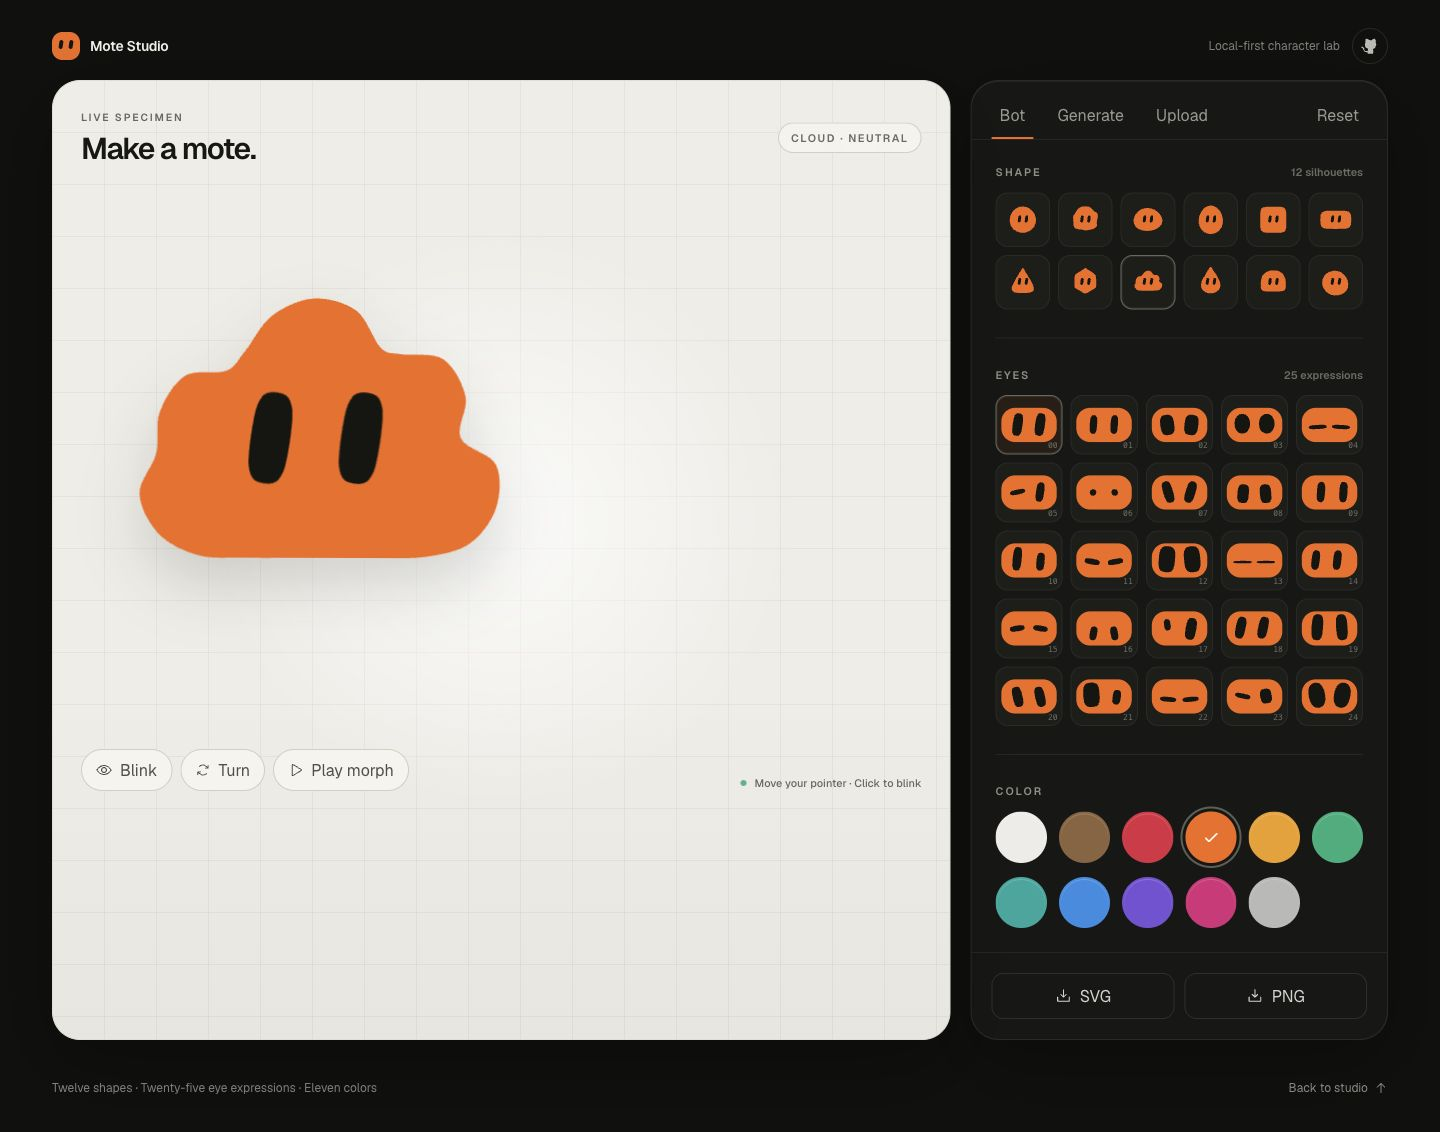
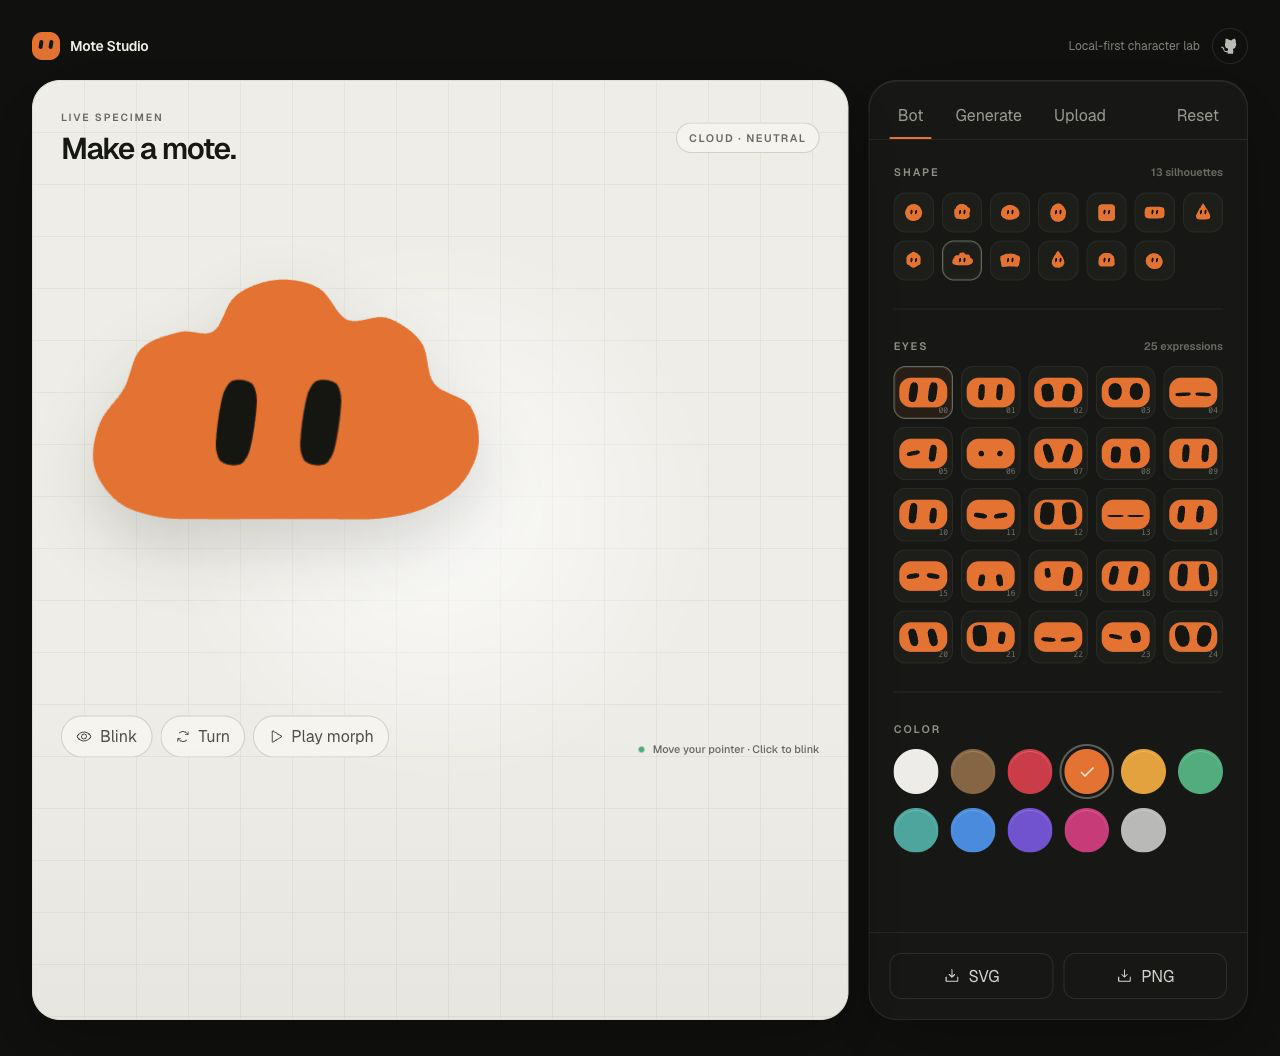
separate brain and cloud silhouettes

diff --git a/packages/core/src/shapes.ts b/packages/core/src/shapes.ts
@@ -8,6 +8,7 @@ export const SHAPE_IDS = [
   'wedge',
   'gem',
   'cloud',
+  'brain',
   'teardrop',
   'dome',
   'bean',
@@ -53,6 +54,30 @@ const superellipse = (
         Math.sign(Math.sin(angle)) *
         Math.abs(Math.sin(angle)) ** (2 / power),
   }))
+
+const wobblySuperellipse = (
+  radiusX: number,
+  radiusY: number,
+  power: number,
+  modulation: (angle: number) => number,
+): Point[] =>
+  sample((angle) => {
+    const radius = modulation(angle)
+    return {
+      x:
+        CENTER +
+        radiusX *
+          Math.sign(Math.cos(angle)) *
+          Math.abs(Math.cos(angle)) ** (2 / power) *
+          radius,
+      y:
+        CENTER +
+        radiusY *
+          Math.sign(Math.sin(angle)) *
+          Math.abs(Math.sin(angle)) ** (2 / power) *
+          radius,
+    }
+  })
 
 const radial = (
   radiusX: number,
@@ -242,43 +267,53 @@ const pointSets: Record<ShapeId, Point[]> = {
     [147, 64],
   ]),
   cloud: fromCoordinates([
-    [160, 68],
-    [181, 71],
-    [196, 84],
-    [202, 101],
-    [202, 111],
-    [214, 101],
-    [229, 99],
-    [243, 107],
-    [252, 121],
-    [254, 139],
-    [248, 152],
-    [263, 158],
-    [273, 171],
-    [274, 189],
-    [267, 207],
-    [252, 220],
-    [232, 225],
-    [205, 226],
-    [177, 226],
-    [149, 226],
-    [121, 226],
-    [94, 226],
-    [72, 218],
-    [59, 204],
-    [54, 186],
-    [58, 169],
-    [69, 158],
-    [65, 145],
-    [68, 130],
-    [78, 118],
-    [91, 109],
-    [104, 110],
-    [115, 118],
-    [119, 96],
-    [134, 79],
-    [150, 70],
+    [160, 60],
+    [181, 61],
+    [198, 72],
+    [208, 89],
+    [222, 83],
+    [240, 86],
+    [253, 98],
+    [261, 112],
+    [263, 128],
+    [278, 133],
+    [289, 145],
+    [293, 162],
+    [290, 179],
+    [280, 194],
+    [266, 205],
+    [247, 213],
+    [224, 216],
+    [199, 216],
+    [174, 216],
+    [149, 216],
+    [124, 216],
+    [99, 216],
+    [76, 214],
+    [59, 207],
+    [46, 194],
+    [40, 178],
+    [41, 162],
+    [48, 147],
+    [60, 136],
+    [63, 117],
+    [74, 102],
+    [89, 94],
+    [105, 94],
+    [118, 100],
+    [121, 82],
+    [136, 68],
+    [151, 62],
   ]),
+  brain: wobblySuperellipse(
+    118,
+    78,
+    4,
+    (angle) =>
+      1 +
+      0.075 * Math.sin(angle * 5 + Math.PI) +
+      0.025 * Math.sin(angle * 3 + 0.4),
+  ),
   teardrop: fromCoordinates([
     [160, 38],
     [170, 52],
@@ -352,8 +387,9 @@ const metadata: Record<
   dome: { label: 'Dome', description: 'Low and relaxed' },
   cloud: {
     label: 'Cloud',
-    description: 'Puffy, soft and unmistakably cloudy',
+    description: 'Clean, puffy and softly grounded',
   },
+  brain: { label: 'Brain', description: 'Lobed and playfully thoughtful' },
   teardrop: { label: 'Teardrop', description: 'Pointed, warm and expressive' },
   bean: { label: 'Bean', description: 'Asymmetric and friendly' },
 }

diff --git a/src/App.tsx b/src/App.tsx
@@ -670,7 +670,7 @@ function App() {
         </main>
 
         <footer className="mx-auto flex w-full max-w-[1400px] flex-col gap-3 px-4 pt-1 pb-8 text-xs text-[#85887f] sm:flex-row sm:items-center sm:justify-between sm:px-6 lg:px-8">
-          <p>Twelve shapes · Twenty-five eye expressions · Eleven colors</p>
+          <p>Thirteen shapes · Twenty-five eye expressions · Eleven colors</p>
           <a
             href="#studio"
             className="inline-flex min-h-6 items-center gap-1.5 self-start rounded-lg transition-colors hover:text-[#c7c9c1] focus-visible:ring-2 focus-visible:ring-[#f56a16] focus-visible:outline-none sm:self-auto"

diff --git a/src/components/ShapePicker.tsx b/src/components/ShapePicker.tsx
@@ -22,10 +22,10 @@ export function ShapePicker({
       <legend className="mb-3 flex w-full items-center justify-between gap-3 text-[0.68rem] font-semibold tracking-[0.18em] text-[#8f9188] uppercase">
         <span>Shape</span>
         <span className="tracking-normal text-[#686b63] normal-case">
-          12 silhouettes
+          13 silhouettes
         </span>
       </legend>
-      <div className="grid grid-cols-6 gap-2">
+      <div className="grid grid-cols-5 gap-2 sm:grid-cols-7">
         {SHAPES.map((shape) => {
           const isSelected = selected === shape.id
           return (

diff --git a/packages/mcp/src/server.test.ts b/packages/mcp/src/server.test.ts
@@ -40,6 +40,7 @@ describe('Mote MCP server', () => {
       shapes: expect.arrayContaining([
         expect.objectContaining({ id: 'blob' }),
         expect.objectContaining({ id: 'cloud', label: 'Cloud' }),
+        expect.objectContaining({ id: 'brain', label: 'Brain' }),
       ]),
       eyes: expect.arrayContaining([
         expect.objectContaining({ id: 'neutral', referenceIndex: 0 }),

diff --git a/packages/core/src/core.test.ts b/packages/core/src/core.test.ts
@@ -15,7 +15,7 @@ import {
 describe('Mote core', () => {
   it('provides compatible morph targets for every public shape', () => {
     expect(SHAPES.map((shape) => shape.id)).toEqual(SHAPE_IDS)
-    expect(SHAPES).toHaveLength(12)
+    expect(SHAPES).toHaveLength(13)
 
     for (const shape of SHAPES) {
       expect(shape.path).toMatch(/^M /)

diff --git a/README.md b/README.md
@@ -12,7 +12,7 @@ The interface was built from scratch around a dark tool dock and a bright live c
 
 ## Features
 
-- Twelve curated SVG silhouettes with smooth path morphing
+- Thirteen curated SVG silhouettes with smooth path morphing
 - Twenty-five morphable eye expressions reconstructed from the technical reference
 - Eleven contrast-aware colors and adaptive eye color
 - Calm, playful, and kinetic motion personalities
@@ -116,7 +116,7 @@ docs/screenshots README captures generated from the running app
 
 Every silhouette resolves to a closed ring of 24 points and every eye to a 16-point ring in `packages/core`. The path generator converts each family to the same number and order of cubic Bézier commands. Because each SVG command topology stays compatible, Motion can interpolate every `d` attribute directly instead of replacing nodes or crossfading between unrelated shapes. Hand-drawn presets such as Cloud and Teardrop are redistributed along their perimeter before rendering, preserving their lobes and pointed profiles while keeping morphs safe.
 
-The twelve-shape set was redrawn as code-native geometry after a reference-only silhouette study. No generated bitmap is included in the application, exports, or package output.
+The thirteen-shape set was redrawn as code-native geometry after reference-only silhouette studies. Cloud and Brain are deliberately separate: Cloud has a calm base and a clean three-lobe crown, while Brain stays asymmetric and lobed around its full perimeter. No generated bitmap is included in the application, exports, or package output.
 
 Ambient movement is isolated from body morphing, expression morphing, gaze, blinking, and face turning. The turn demo follows the supplied reference's spherical projection: each eye travels around a virtual face, compresses with depth, and disappears only when it passes behind the silhouette. User-selected eye changes use an interruptible spring; automatic expression changes run at a restrained cadence and stop under `prefers-reduced-motion`. Each layer animates only transforms, opacity, color, or the SVG path itself; layout properties are never animated.
 
